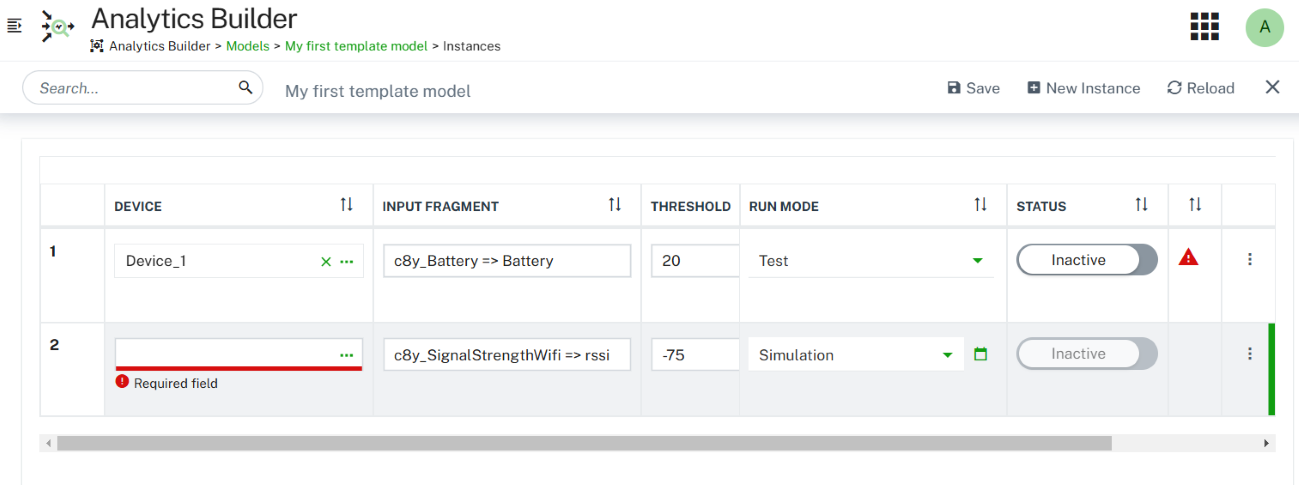
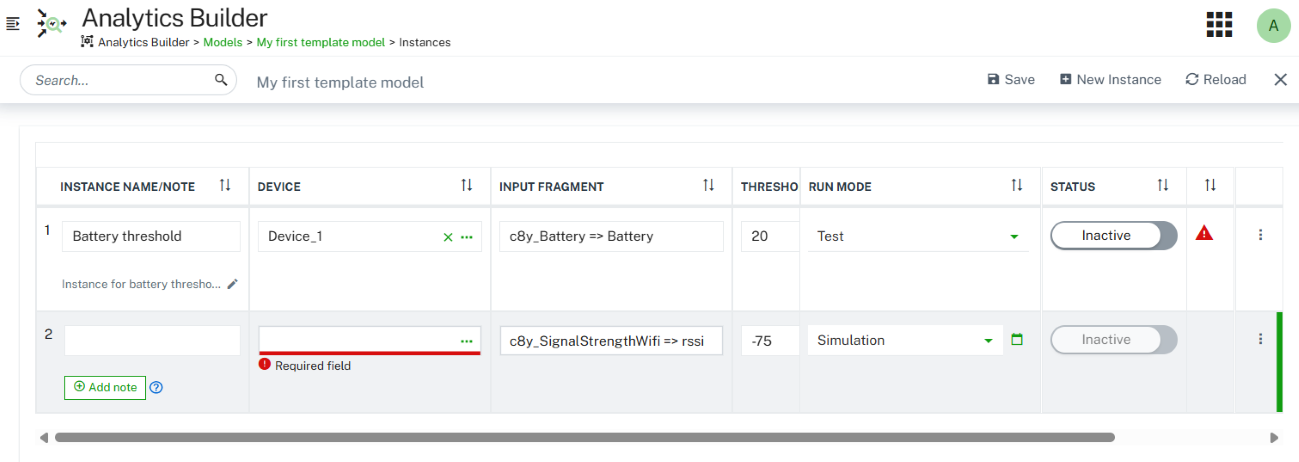
Docs for Analytics Rules plugin [PAB-4742] (#3395)
* getting started with plugins

* create your first rule

* added docs for plugin from devicemanagement

* refactor

* some more refactors

* Understanding the plugin

* grammar and typos fix

* refactor

* weight updated

* plugin definition update

* prerequisites updated

* refactor

* formatting

* refactor understanding the plugin

* lower case refactor

* doc changes to showup the contextual help for analytics rules plugin as part of PAB-4811

* Updated Analytics Rules to Analytics rules.

* prerequisites

* removed shell

* flow update

* Troubleshooting

* refactor

* update screenshot

* refactor

* screenshots updated

* refactor

* review comments

* remove duplicate

* refactor

* Docs for TP souce or destination multi-select and instance name/notes [PAB-4743] (#3420)

* doc update for multi-select tp

* instance-editor docs with screenshot

* refactor

* refactor

* note and screenshot

* refactor

* screenshot added

* refactor

* updated from review

* screenshot highlight color updated

* refactor link

* remove article

---------

diff --git a/content/streaming-analytics/analytics-rules-plugin-bundle/index.html b/content/streaming-analytics/analytics-rules-plugin-bundle/index.html
@@ -1,0 +1,4 @@
+---
+title: Analytics rules plugin
+headless: true
+---

diff --git a/content/streaming-analytics/analytics-rules-plugin-bundle/getting-started.md b/content/streaming-analytics/analytics-rules-plugin-bundle/getting-started.md
@@ -1,0 +1,117 @@
+---
+weight: 10
+title: Getting started with the Analytics rules plugin
+layout: redirect
+outputs:
+  - html
+  - json
+helpcontent:
+- label: analytics-rules-plugin
+  title: Analytics rules plugin
+  content: "The Analytics rules plugin extends the capabilities of Analytics Builder within Streaming Analytics. It allows users to create, deploy, and manage Analytics Builder models directly from device and group contexts in applications like Device Management and Cockpit."
+---
+
+### What is the Analytics rules plugin {#what-is-the-analytics-rules-plugin}
+The Analytics rules plugin extends the Analytics Builder capabilities within Streaming Analytics by enabling users to create and manage Analytics Builder model instances directly from device and group contexts within applications such as Device Management and Cockpit.
+
+For more details about Analytics Builder, refer to [Analytics Builder](/streaming-analytics/analytics-builder/#getting-started).
+
+### Prerequisites {#prerequisites}
+
+Before using the Analytics rules plugin, ensure that the following requirements are met:
+- The tenant is subscribed to the Streaming Analytics microservice that supports the Analytics Builder capability.
+- The Analytics rules plugin is installed in the desired application, and the feature flag `streaming-analytics.analytics-rules-plugin` is enabled.
+- The user has the required privileges to access Analytics Builder models and create new instances of Analytics builder templated models. Refer to [Permissions](/streaming-analytics/introduction-analytics/#permissions).
+
+### Creating your first analytics rule {#creating-your-first-analytics-rule}
+
+This topic provides the basic workflow for creating your first analytics rule using the plugin from applications like Device Management. You will create a simple templated analytics model that creates an alarm when the temperature breaches a given threshold value. The steps below require that at least one device is already registered in {{< product-c8y-iot >}}. Preferably, this device already sends measurement values to {{< product-c8y-iot >}}.
+
+The model that you add will contain three blocks:
+- An input block which receives measurements from devices, groups, or assets.
+- A threshold block which verifies the measurement has breached the threshold value.
+- An alarm output block which creates an alarm object for specified devices, groups, or assets.
+
+#### Step 1: Create an Analytics model {#create-an-analytics-model}
+
+This section walks you through creating a simple temperature monitoring model. For more detailed Analytics Builder information, refer to [Understanding models](/streaming-analytics/analytics-builder/#understanding-models).
+
+1. Open the Streaming Analytics application and navigate to **Analytics Builder** > **Models**.
+2. On the top bar, click **New Model**, enter a model name (for example, "Create alarm on threshold") and click **OK**.
+3. From the palette on the left, expand **Input** and drag the **Measurement Input** block onto the canvas. In the block parameter editor:
+   - For **Input Source**, select "Template parameter" from the dropdown <img src="/images/streaming-analytics/analytics-builder/option-template-parameter.png" alt="Option for selecting a template parameter" style="display:inline-block; margin:0">, then provide a name. For example, "Measurement Source".
+   ![Template parameter with From Context](/images/streaming-analytics/analytics-rules-plugin/select-tp-type.png)
+
+   - For **Fragment and Series**, select "Template parameter" from the dropdown, then provide a name. For example: "Input Fragment and Series".
+4. Expand **Calculation** and drag the **Threshold** block onto the canvas. In the block parameter editor:
+   - For **Threshold Value**, select "Template parameter" from the dropdown, then provide a name. For example: "Threshold Value".
+5. Expand **Output** and drag the **Alarm Output** block onto the canvas. In the block parameter editor:
+   - For **Output Destination**, select "Template parameter" from the dropdown, then use the same template parameter given for **Input Source** of the **Measurement Input** block. For example: "Measurement Source".
+   - For **Alarm Type**, select "Template parameter" from the dropdown, then provide a name. For example:  "Alarm Type".
+   - For **Message**, select "Template parameter" from the dropdown, then provide a name. For example:  "Alarm Text".
+   - For **Severity**, select "Template parameter" from the dropdown, then provide a name. For example: "Alarm Severity".
+6. Connect the blocks by clicking and dragging between their ports (small circles on the sides of blocks):
+   - Connect the **Value** output of the **Measurement Input** to the **Value** input of the **Threshold**.
+   - Connect the **Breached** output of the **Threshold** to the **Create Alarm** input of the **Alarm Output**.
+7. In the toolbar of the model editor, click the template parameter icon <i class="c8y-icon c8y-icon-parameters-on c8y-icon-duocolor icon-20"></i> to open the template parameter dialog. Ensure the template parameter entry provided for **Input Source** of the **Measurement Input** block (example : "Measurement Source") has "Source or Destination" updated to include one or more values from the **Restrict to** dropdown (for example, "Device") and set **Value Selection** to "From Context". Click **OK** to save the changes.
+
+For more details about "From Context" and **Restrict to**, refer to [Define template parameters](/streaming-analytics/analytics-builder/#to-define-the-template-parameters-for-the-instances-of-the-current-model)
+
+![Template parameter with From Context](/images/streaming-analytics/analytics-rules-plugin/template-parameter.png)
+
+For detailed information about creating and managing template parameters in Analytics Builder, refer to [Managing template parameters](/streaming-analytics/analytics-builder/#managing-template-parameters).
+
+8. In the toolbar of the model editor, click the save icon <i class="dlt-c8y-icon-save icon-20"></i> to save the model.
+
+When completed, your model will look similar to this:
+
+![Create model for alarms](/images/streaming-analytics/analytics-rules-plugin/create-alarm-model.png)
+
+#### Step 2: Create model instance using Analytics rules plugin {#create-an-instance-of-model-using-analytics-rules-plugin}
+
+1. Navigate to the Device Management application.
+2. Go to **Devices** > **All devices** and select a device.
+3. Click the **Analytics rules** tab (embedded as one of the device details tabs).
+Refer to the [Prerequisites](#prerequisites) section to ensure all requirements are met.
+   ![Analytics rule tab](/images/streaming-analytics/analytics-rules-plugin/empty-analytics-rule.png)
+4. Click **Add rule** to open the **Add analytics rule** dialog. Since we are currently in the **Device** context, only models that have been configured with **From Context** template parameters restricted to **Device** will be visible here. Select your configured model and click **OK**.
+   ![Add rule for the selected model](/images/streaming-analytics/analytics-rules-plugin/add-rule-for-selected-model.png)
+5. Configure the rule parameters:
+   - Optionally update the name or add a note if desired.
+   - Populate the template parameter values. The value of the template parameter (for example, "Measurement Source") configured with **From Context** is derived automatically from the current device or group context.
+   - Click **Save** to save the rule, or toggle to **Active** to save and deploy immediately.
+6. Your rule now appears in the Analytics rules list, showing its status (Active/Inactive).
+   ![Analytics rules list](/images/streaming-analytics/analytics-rules-plugin/analytics-rules-list.png)
+
+**Congratulations!** You have successfully created and deployed your first analytics rule using the Analytics rules plugin.
+
+### Creating Analytics rules for existing samples {#create-analytics-rule-for-existing-samples}
+
+You can also create analytics rules using pre-built sample models from Analytics Builder. The process is similar to creating from scratch but faster since the model logic is already defined.
+
+#### Step 1: Create a model from a sample {#create-model-from-sample}
+1. Navigate to **Analytics Builder** > **Samples**.
+2. Click the actions menu <i class="dlt-c8y-icon-menu-vertical text-muted icon-20"></i> of your desired sample (for example, "On alarm execute operation") and select **Create model from sample**.
+   ![Create model from sample](/images/streaming-analytics/analytics-rules-plugin/create-model-from-sample.png)
+3. The model editor opens with the sample model ready for use.
+
+#### Step 2: Configure template parameters {#configure-template-parameters}
+1. Click the template parameter icon <i class="c8y-icon c8y-icon-parameters-on c8y-icon-duocolor icon-20"></i> in the toolbar.
+2. Ensure the template parameter entry provided for **Input Source** of the **Alarm Input** block (for example, "Device or group of devices") has "Source or Destination" updated to include one or more values from the **Restrict to** dropdown (for example, "Device") and set **Value Selection** to "From Context". Click **OK** to save the changes.
+3. In the toolbar of the model editor, click the save icon <i class="dlt-c8y-icon-save icon-20"></i> to save the model.
+
+#### Step 3: Create a rule from the Device Management application {#create-rule-from-device-management-application}
+Follow the same steps as described in [Step 2: Create model instance using the Analytics rules plugin](#create-an-instance-of-model-using-analytics-rules-plugin) above.
+
+
+### Troubleshooting {#troubleshooting}
+
+1. **No models available in Add rule dialog**
+   - Ensure that the Analytics Builder models have template parameters configured with the "From Context" value.
+   - Verify your current context matches the model's "Source or Destination" type restrictions. For example, when in a device context where the model's **Restrict to** dropdown is configured with "Groups" only, that model will not be available. To appear in device contexts, "Device" must be selected in the **Restrict to** dropdown.
+2. **Previously created rules don't appear in the Analytics rules list**
+   - Verify that the Analytics instances are set to **Production mode** in the Analytics Builder instance editor.
+   - Check if Analytics instance names are set in the Analytics Builder instance editor.
+   - Confirm you're viewing the correct device or group context.
+3. **Error in Analytics rule deployment**
+   - Click the runtime error icon <img src="/images/streaming-analytics/analytics-builder/runtime_error.png" alt="Error icon" style="display:inline-block; margin:0"> to view information about the error.

diff --git a/content/streaming-analytics/analytics-rules-plugin-bundle/understanding-the-plugin.md b/content/streaming-analytics/analytics-rules-plugin-bundle/understanding-the-plugin.md
@@ -1,0 +1,58 @@
+---
+weight: 15
+title: Understanding the Analytics rules plugin
+layout: redirect
+---
+
+### Analytics Builder workflow versus Analytics rules plugin {#analytics-builder-workflow-versus-analytics-rules-plugin}
+
+#### Standard Analytics Builder workflow {#standard-analytics-builder-workflow}
+In the standard Analytics Builder workflow, to deploy analytics instances, users must switch from their primary workflow to the Analytics Builder:
+
+1. Navigate to the Streaming Analytics application.
+2. Go to **Analytics Builder**.
+3. Select your model and navigate to the **Instances** page.
+4. Create instances/rules for the model in the instance editor.
+5. Configure and deploy rules from the instance editor.
+
+This process requires switching between applications and can be time-consuming when managing rules for multiple devices or groups.
+
+For detailed information about the instance editor workflow, refer to [Instance editor](/streaming-analytics/analytics-builder/#using-the-instance-editor).
+
+#### With Analytics rules plugin {#with-analytics-rules-plugin}
+The Analytics rules plugin streamlines this process by enabling analytics builder model instance creation and deployment directly from device and group contexts, eliminating the need for switching to different application.
+
+### Understanding the Analytics rules interface {#understanding-the-analytics-rules-interface}
+
+A rule has the following fields and properties:
+
+|   Field              | Description           |
+|----------------------| ----------------------|
+| **Name**             | Automatically populated with the model name but can be customized for more descriptive names.<br>When creating multiple rules from the same model without changing the rule name, the plugin automatically appends #1, #2, #3, etc. to differentiate instances. Rules are sorted by instance name. |
+| **Note**             | You can add a note for the rule.                                                                                                                                                                                                                                |
+| **Created**          | Shows the timestamp when the rule was created.                                                                                                                                                                                                               |
+| **Last Updated**     | Shows the timestamp when the rule was last updated.                                                                                                                                                                                                          |
+| **Model Name**       | Displays the name of the model associated with the rule. This field is read-only.                                                                                                                                        |
+| **Template parameters** | Template parameters configured as "From Context" are automatically populated based on your current device/group context.<br>Context-based parameters are read-only as they inherit values from the current context.<br>Non-context template parameters remain editable for user configuration. |
+| **Active/Inactive**  | Deploy the rule by toggling from inactive to active state.<br>Once the rule is deployed, all fields and properties become read-only unless the rule is undeployed.                                                        |
+
+### Integration with Analytics Builder instance editor {#integration-with-analytics-builder-instance-editor}
+
+The Analytics rules plugin maintains seamless bidirectional integration with the Analytics Builder instance editor.
+
+Rules created in the Analytics Builder instance editor appear in the Analytics rules plugin only when the mode is set to **Production**. Non-production modes indicate the rule is under development or testing and not ready for deployment.
+
+Rules created through the Analytics rules plugin automatically appear in the corresponding model's instance editor. These rules can be edited, modified, or deleted from the instance editor.
+
+To prevent deployment of incomplete rules, the instance editor includes enhanced validation on the instance name. The instance name is required and must be unique within your tenant. The instance is available for deployment only after you provide a unique, non-empty instance name.
+
+{{< c8y-admon-info>}}
+This validation applies only to models configured with template parameters with the value selection set to "From Context".
+{{< /c8y-admon-info>}}
+
+- When the instance name is empty, a message **Set distinct instance name to select production mode** is displayed below the mode field.
+- If you enter a duplicate instance name, an error message **Instance name already exists** appears below the instance name field and prevents you from proceeding.
+
+![Production mode validation](/images/streaming-analytics/analytics-rules-plugin/production-mode-validation.png)
+
+This validation ensures that all production-ready rules have proper identification and prevents deployment conflicts.

diff --git a/content/streaming-analytics/analytics-builder-bundle/using-the-model-editor.md b/content/streaming-analytics/analytics-builder-bundle/using-the-model-editor.md
@@ -384,10 +384,17 @@ Models with no template parameters can be directly activated in the model manage
         An input block specifies a device or a range of devices, while an output block specifies a device, a trigger device or an asset. For template parameters, the same template parameter and thus value can be used for both input and output blocks. If a template parameter is set to refer to a range of devices, then using it in an output block will be treated as the trigger device. Typically, a single template parameter would be used for all input and output blocks, and may be a single device or a range of devices, in which case the block output goes to the device within the range that triggered a model evaluation \(so a model calculating an average of a measurement and outputting to a measurement would generate a new measurement for each device independently\). Even if a different template parameter whose value refers to a different range was used, the model output would only be sent to the device that triggered a model's evaluation.
 
     -   **Source or Destination Type**.
-        You can select one of the following source or destination types: **Device**, **Groups**, **Assets**, or **Other**. You can then specify a default value that is based on your selection.
-
-    -   **Optional**. An optional value can remain blank or can be set later by the instance maintainer. When you select this checkbox, it is not possible to specify a default value.
-    -   **Default Value**. You can only specify a default value when the **Optional** checkbox is not selected.
+        You can select one or more of the following "Source or Destination" types from the **Restrict to** dropdown: "Device", "Groups", "Assets", or "Other". This selection restricts the template parameter to the selected types. This restriction is mandatory when "From Context" is selected from the **Value Selection** dropdown.
+        ![Template parameter with From Context](/images/streaming-analytics/analytics-builder/from-context-restrict-to.png)
+    -   **Value Selection** - Select one of the following options from the dropdown:
+        -   Required - Default. Instance deployment requires a value for this template parameter.
+        -   Optional - The template parameter can remain blank or can be set later by the instance maintainer. When you select this option, it is not possible to specify a default value.
+        -   From Context - Applicable only for "Source or Destination" type. The input will be automatically selected based on the context where the instance is created. Example: Device context or group context.
+{{< c8y-admon-info>}}
+Only one template parameter per model can have a "From Context" value selection.
+{{< /c8y-admon-info>}}
+    
+    -   **Default Value**. You can only specify a default value when the **Value Selection** option is set to "Required".
 
         **Exception**: Boolean types always have a value and cannot be optional. They are “false” by default \(that is, the checkbox for the default value is not selected\).
 

diff --git a/content/streaming-analytics/analytics-builder-bundle/using-the-instance-editor.md b/content/streaming-analytics/analytics-builder-bundle/using-the-instance-editor.md
@@ -41,7 +41,7 @@ When you add a new instance, a new row is added to the instance editor table. Yo
 1.  In the toolbar of the instance editor, click **New Instance**.
     This adds a new row at the bottom of the table. New instances \(rows\) are shown with a background color until they have been saved.
 
-2.  Fill in the template parameter values, as defined by the model. See also [Editing an instance](/streaming-analytics/analytics-builder/#editing-an-instance).
+2.  Fill in the instance name and template parameter values, as defined by the model. See also [Editing an instance](/streaming-analytics/analytics-builder/#editing-an-instance).
 
 ### Editing an instance {#editing-an-instance}
 

diff --git a/content/streaming-analytics/analytics-rules-plugin.md b/content/streaming-analytics/analytics-rules-plugin.md
@@ -1,0 +1,7 @@
+---
+weight: 35
+title: Analytics rules plugin
+layout: bundle
+sector:
+  - data_analytics
+---
